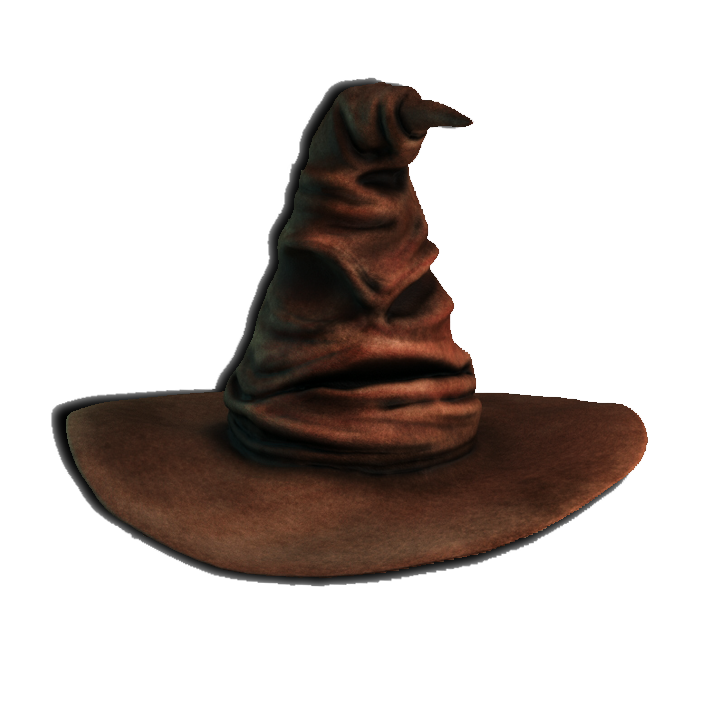
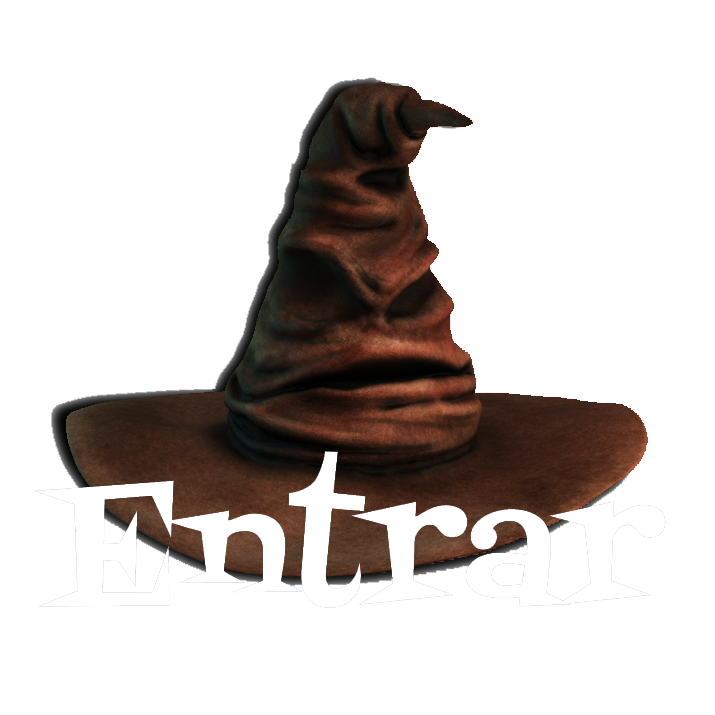
modificaciones en las imagenes con la tipografia incluida. Modificaciones en el css, imagenes sin deformar y fondo fijo

Changed region(s): [[0.0923, 0.6154, 0.8308, 0.8308], [0.4923, 0.8, 0.5231, 0.8308]]

diff --git a/src/style.css b/src/style.css
@@ -15,14 +15,14 @@
 
     #header{
         display: flex;
-        padding: 0px 0px 0px 80px;
+        padding: 0px 0px 50px 80px;
     }
 
         #contenedor{
             /*background: #2D4059;*/
            
             flex-flow: column nowrap;
-            height: 768px;
+            height: 704px;
         }
             #mainTitle{
                 height: 450px;
@@ -131,8 +131,9 @@
     display: flex;
     background: url("imagenes/voldemort.jpg");
     background-position: center;
-    background-attachment: contain;
+    background-attachment: fixed; /*fixed para que quede fija la imagen*/
     background-size: cover;
+    padding: 30px 80px 0px 80px;
 
     /*background: #000;*/
 }
@@ -221,6 +222,7 @@
                 width: 200px;
                 height: 200px;
                 border-radius: 50%;
+                object-fit: cover; /*para que la imagen no quede chatita*/
                 cursor: pointer;
             }
             .root > img:hover{
